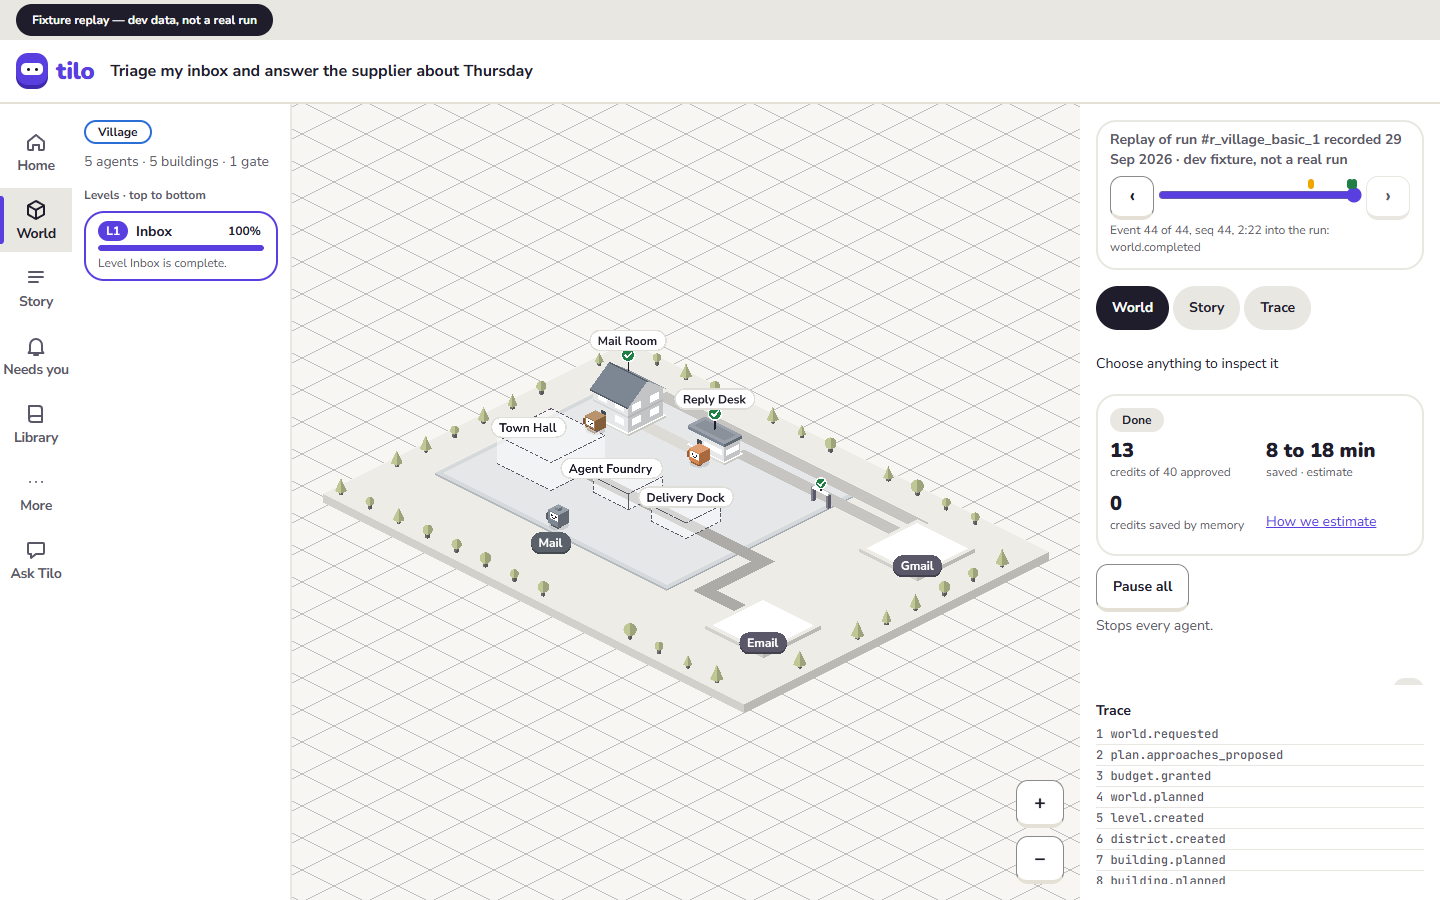
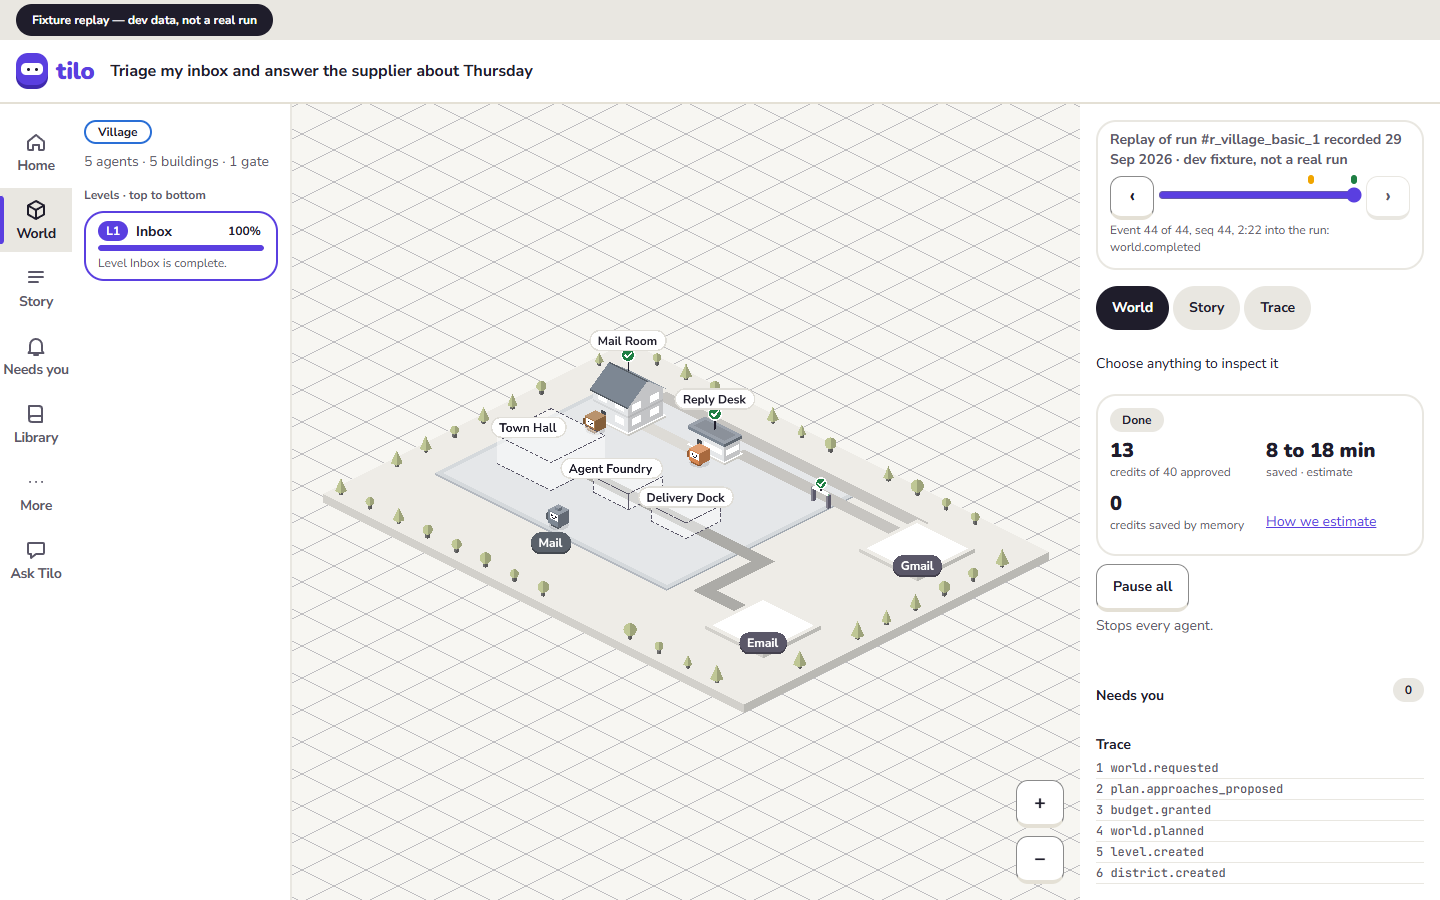
fix(web): S-04 Needs-you row no longer clipped; marks merge (#227)
The fixture Trace list is six whole rows (126 px) so the HUD above it shows the Pause all note
and the Needs-you row without a clipped fragment. Adjacent same-kind marks are one place on the
track and sit above the thumb. The building count moves to world/levels.ts with a test.

Req: FR-WLD-08

Changed region(s): [[0.75, 0.7467, 0.9688, 0.9956], [0.9688, 0.7467, 1.0, 0.7778]]

diff --git a/apps/web/src/world/levels.test.ts b/apps/web/src/world/levels.test.ts
@@ -2,7 +2,7 @@ import type { Layout } from "@tilo/contracts";
 import { describe, expect, it } from "vitest";
 import { EVENTS_VILLAGE_BASIC } from "../api/fixtures/events";
 import { LAYOUT_VILLAGE_BASIC } from "../api/fixtures/layout";
-import { levelRows, scrubMarks } from "./levels";
+import { buildingCount, levelRows, scrubMarks } from "./levels";
 import { reduce } from "./reducer";
 
 const layout = LAYOUT_VILLAGE_BASIC as unknown as Layout;
@@ -58,8 +58,7 @@ describe("PRD-18.3 S-04 scrubber marks: one per registered decision, finish or p
   it("marks the decision asked for and the finishes, at the stop after each event", () => {
     expect(scrubMarks(EVENTS_VILLAGE_BASIC)).toEqual([
       { index: 34, kind: "decision" },
-      { index: 43, kind: "done" },
-      { index: 44, kind: "done" },
+      { index: 44, kind: "done" }, // level.completed (43) and world.completed (44) are one place
     ]);
   });
 
@@ -70,9 +69,16 @@ describe("PRD-18.3 S-04 scrubber marks: one per registered decision, finish or p
 
   it("marks a raised alert and a failed run as problems", () => {
     const at = (type: string) => ({ ...EVENTS_VILLAGE_BASIC[0], type });
-    expect(scrubMarks([at("alert.raised"), at("world.failed")] as never)).toEqual([
+    const quiet = at("agent.moved");
+    expect(
+      scrubMarks([at("alert.raised"), quiet, at("world.failed"), at("alert.raised")] as never),
+    ).toEqual([
       { index: 1, kind: "problem" },
-      { index: 2, kind: "problem" },
+      { index: 4, kind: "problem" }, // world.failed (3) and the alert after it are one place
     ]);
   });
+});
+
+it("PRD-18.3 S-04 counts the buildings the layout plans", () => {
+  expect(buildingCount(layout)).toBe(5);
 });

diff --git a/apps/web/src/world/levels.ts b/apps/web/src/world/levels.ts
@@ -17,6 +17,13 @@ export interface LevelRow {
   readonly active: boolean;
 }
 
+/** How many buildings a layout plans, over all levels. */
+export const buildingCount = (layout: Layout): number =>
+  layout.semantic.levels.reduce(
+    (n, level) => n + level.districts.reduce((m, d) => m + d.buildings.length, 0),
+    0,
+  );
+
 /** The levels of a layout, top to bottom (the last level is the highest). */
 export function levelRows(
   layout: Layout,
@@ -73,7 +80,11 @@ export function scrubMarks(events: readonly Event[]): readonly ScrubMark[] {
   const marks: ScrubMark[] = [];
   events.forEach((e, i) => {
     const kind = MARK_KIND[e.type];
-    if (kind && isKnownType(e.type)) marks.push({ index: i + 1, kind });
+    if (!kind || !isKnownType(e.type)) return;
+    // A level finishing and the run finishing on the next event are one place on the track.
+    const prev = marks[marks.length - 1];
+    if (prev && prev.kind === kind && i + 1 - prev.index <= 1) marks.pop();
+    marks.push({ index: i + 1, kind });
   });
   return marks;
 }

diff --git a/apps/web/src/screens/LevelsPanel.tsx b/apps/web/src/screens/LevelsPanel.tsx
@@ -4,7 +4,7 @@
 // layout and the recorded events up to the replay point (HR-1); before a layout there is no panel.
 import type { Event } from "@tilo/contracts";
 import { useClient } from "../api/ClientProvider";
-import { levelRows } from "../world/levels";
+import { buildingCount, levelRows } from "../world/levels";
 import { reduce } from "../world/reducer";
 import { useReplayedLog } from "../world/replay";
 import { AppLink } from "./AppLink";
@@ -22,10 +22,7 @@ export function LevelsPanel({
   if (layoutRemote.status !== "ready") return <aside className="levels-panel" aria-hidden="true" />;
   const layout = layoutRemote.value;
   const rows = levelRows(layout, reduce(layout, events), events);
-  const buildings = layout.semantic.levels.reduce(
-    (n, level) => n + level.districts.reduce((m, d) => m + d.buildings.length, 0),
-    0,
-  );
+  const buildings = buildingCount(layout);
   const gates = layout.semantic.gates.length;
   return (
     <aside className="levels-panel" aria-label="Levels" data-testid="levels-panel">

diff --git a/apps/web/src/styles/app.css b/apps/web/src/styles/app.css
@@ -457,7 +457,7 @@ textarea {
   list-style: none;
   margin: 0;
   padding: 0;
-  height: 160px; /* reserved: rows arriving never move the Trace heading (CLS); 8 rows leave the HUD above it room for its Pause all note */
+  height: 126px; /* reserved: rows arriving never move the Trace heading (CLS); six whole 21 px rows leave the HUD above it room for its Pause all note and the Needs-you row */
   overflow-y: auto;
   font: 400 var(--text-12) var(--font-mono);
   color: var(--color-ink-2);
@@ -2549,10 +2549,10 @@ button.row {
 }
 .replay-marks i {
   position: absolute;
-  top: 6px;
+  top: 2px;
   left: calc(8px + (100% - 16px) * var(--at));
   width: 6px;
-  height: 10px;
+  height: 9px;
   margin-left: -3px;
   border-radius: var(--radius-pill);
   background: var(--color-signal-needs);

diff --git a/apps/web/src/screens/LevelsPanel.test.tsx b/apps/web/src/screens/LevelsPanel.test.tsx
@@ -56,7 +56,7 @@ describe("PRD-18.3 S-04 scrubber marks: drawn only for a finished run", () => {
       <ReplayScrubber worldId="w_marks" events={EVENTS_VILLAGE_BASIC} finished fixture />,
     );
     const marks = [...finished.querySelectorAll('[data-testid="scrub-marks"] i')];
-    expect(marks.map((m) => m.getAttribute("data-kind"))).toEqual(["decision", "done", "done"]);
+    expect(marks.map((m) => m.getAttribute("data-kind"))).toEqual(["decision", "done"]);
     expect(marks.every((m) => (m as HTMLElement).style.getPropertyValue("--at") !== "")).toBe(true);
     const going = await mount(
       <ReplayScrubber worldId="w_marks2" events={EVENTS_VILLAGE_BASIC} finished={false} fixture />,

diff --git a/apps/web/e2e/world-levels-panel.spec.ts b/apps/web/e2e/world-levels-panel.spec.ts
@@ -36,7 +36,7 @@ test("S-04 the replay track marks the decision and the finishes at their stops",
   await page.setViewportSize(DESKTOP);
   await page.goto(WORLD);
   const marks = page.getByTestId("scrub-marks").locator("i");
-  await expect(marks).toHaveCount(3);
+  await expect(marks).toHaveCount(2);
   const track = await page.getByRole("slider", { name: "Replay position" }).boundingBox();
   const first = await marks.first().boundingBox();
   expect(track && first && first.x > track.x && first.x < track.x + track.width).toBe(true);
